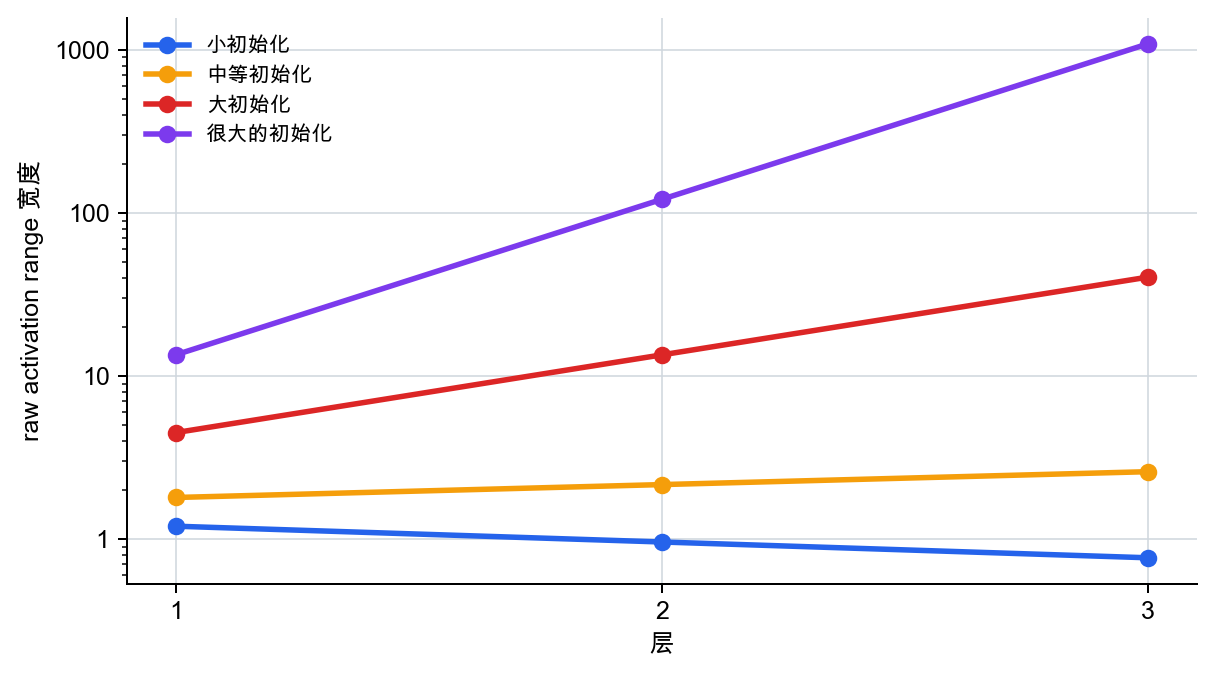
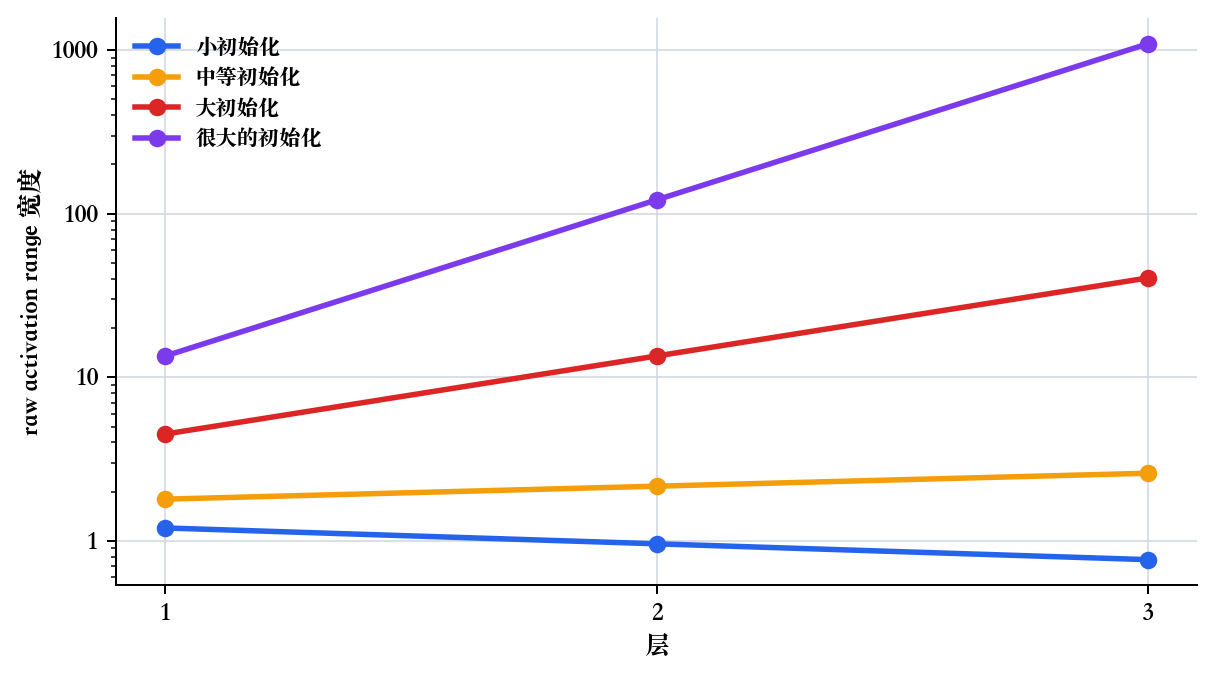
Update Part 5 P5-8.4 translations

diff --git a/docs/assets/part-05/chapter-08/p5_8_4_deep_scale_charts.py b/docs/assets/part-05/chapter-08/p5_8_4_deep_scale_charts.py
@@ -55,6 +55,8 @@ LANG_TEXT = {
             "Noto Sans CJK JP",
             "Microsoft YaHei",
             "PingFang SC",
+            "Songti SC",
+            "Hiragino Sans GB",
             "Arial Unicode MS",
             "DejaVu Sans",
         ],

diff --git a/docs/parts/part-05/chapter-08/section-04.zh.md b/docs/parts/part-05/chapter-08/section-04.zh.md
@@ -1,7 +1,7 @@
 # P5-8.4 补充学习：较大的初始化尺度会怎样摇晃计算范围
 
-Section ID: `P5-8.4`
-Version: `v2026.07.17`
+> Section ID: `P5-8.4`
+> Version: `v2026.07.20`
 
 在 P5-8.3 里，我们把让深层计算没那么容易摇晃的条件，收成了 initialization、numerical stability、batch normalization 三个概念。现在要用实际数字来确认那条说明。
 
@@ -14,12 +14,12 @@ Version: `v2026.07.17`
 ## 本节范围
 
 - 较大的 initialization scale 会怎样在深层重复计算里放大 raw activation 的范围和 variance？
-- 如果在每一层后面都加入 batch normalization，同一条计算 흐름会怎样变化？
+- 如果在每一层后面都加入 batch normalization，同一条计算流程会怎样变化？
 - 这个例子虽然不能代替完整神经网络，但它怎样帮助我们抓住计算稳定化的直觉？
 
 作为第 8 章的最后一步，这一节的角色，是用数字再次确认前一节已经收拢好的`计算稳定化装置`。这也是为什么这里不讨论 optimizer update、loss 下降、真实数据集训练成绩。那些话题会让位给 P5-6.1 的学习循环说明，以及 P5-7.1、P5-7.2 的 optimizer 说明。
 
-## 读这个例子的 기준
+## 读这个例子的标准
 
 下面这个例子的输入，并不是随便列出来的一张数字表，而是被假设为从前一层传过来的三个样本的 activation value。
 
@@ -47,29 +47,17 @@ Version: `v2026.07.17`
 | `weight_cases` 里的尺度 | `raw_range`, `raw_variance` | 起始尺度越大，重复计算会多快把范围拉大？ |
 | `layer` 的重复次数 | 各层 `raw_range`, `raw_variance` 的变化 | 在同样尺度下，层数变多时不稳定会积累到什么程度？ |
 | 输入 activation 表 | `raw_range`, `after_bn_range` | 输入 distribution 一旦变化，batch normalization 之后的范围又会怎样一起变化？ |
-| `eps` | `after_bn_range` 的细微变化 | batch normalization 是怎样以 mean 和 variance 为 기준整理 distribution 的？ |
+| `eps` | `after_bn_range` 的细微变化 | batch normalization 是怎样以 mean 和 variance 为标准整理 distribution 的？ |
 
 这里也要先固定一件事。下面的 batch normalization 结果，并不意味着`初始化再怎么随便变大都没关系`。这个玩具实验只是想分离展示：`在样本相对形状不变、只改尺度时，distribution 会怎样重新被整理。` 所以更安全的读法，是把 batch normalization 看成`重新整理已经产生的 distribution 的装置`，而不是把它看成会替代 initialization 出发点问题的东西。
 
 ## Python 例子
 
 ```python
-# 这个例子比较 initialization scale 如何扩大多层 raw range 和 variance，以及 batch normalization 如何重新整理范围。
-hidden_activations = [
-    {"sample": "A", "activation": 1.0},
-    {"sample": "B", "activation": 2.0},
-    {"sample": "C", "activation": 0.5},
-]
+# 这个例子读取 CSV activation 日志，比较 initialization scale 是否会放大深层 raw range 和 variance，以及 batch normalization 是否会重新整理范围。
+from csv import DictReader
+from pathlib import Path
 
-weight_cases = {
-    "small_init": 0.8,
-    "medium_init": 1.2,
-    "large_init": 3.0,
-    "very_large_init": 9.0,
-}
-
-def linear_layer(values, weight):
-    return [value * weight for value in values]
 
 def batch_norm(values, eps=1e-5):
     mean = sum(values) / len(values)
@@ -77,17 +65,36 @@ def batch_norm(values, eps=1e-5):
     normalized = [(v - mean) / ((variance + eps) ** 0.5) for v in values]
     return mean, variance, normalized
 
-for case_name, weight in weight_cases.items():
-    raw_values = [row["activation"] for row in hidden_activations]
-    bn_values = [row["activation"] for row in hidden_activations]
+csv_path = Path("docs/assets/part-05/chapter-08/deep-scale-activation-log.csv")
+
+rows = []
+with csv_path.open(encoding="utf-8") as file:
+    for row in DictReader(file):
+        rows.append(
+            {
+                "case_name": row["case_name"],
+                "weight_scale": float(row["weight_scale"]),
+                "layer": int(row["layer"]),
+                "sample": row["sample"],
+                "raw_activation": float(row["raw_activation"]),
+            }
+        )
+
+case_order = ["small_init", "medium_init", "large_init", "very_large_init"]
+layer_order = [1, 2, 3]
+
+for case_name in case_order:
+    case_rows = [row for row in rows if row["case_name"] == case_name]
+    weight = case_rows[0]["weight_scale"]
     print(f"[{case_name}] weight = {weight}")
 
-    for layer in range(1, 4):
-        raw_values = linear_layer(raw_values, weight)
-        _, raw_variance, _ = batch_norm(raw_values)
-
-        before_bn = linear_layer(bn_values, weight)
-        _, _, bn_values = batch_norm(before_bn)
+    for layer in layer_order:
+        layer_rows = [
+            row for row in case_rows
+            if row["layer"] == layer
+        ]
+        raw_values = [row["raw_activation"] for row in layer_rows]
+        _, raw_variance, bn_values = batch_norm(raw_values)
 
         print(
             f"layer {layer}: "
@@ -98,7 +105,7 @@ for case_name, weight in weight_cases.items():
     print("---")
 ```
 
-这段代码并不是在实现`一个完整的真实神经网络层`，而是一个压缩实验，只想看：`权重尺度在穿过层时，会把数值范围和 variance 推向哪里。` 因此，我们首先要看的不是精确训练成绩，而是`重复计算与尺度累积的方向`。
+这段代码会读取 [`deep-scale-activation-log.csv`](/AiBook/assets/part-05/chapter-08/deep-scale-activation-log.csv) 里记录的 36 个值，并按 case 和 layer 重新计算范围与 variance。它并不是在实现`一个完整的真实神经网络层`，而是一个压缩实验，只想看：`权重尺度在穿过层时，会把数值范围和 variance 推向哪里。` 因此，我们首先要看的不是精确训练成绩，而是`重复计算与尺度累积的方向`。
 
 输出示例如下。
 
@@ -145,13 +152,13 @@ layer 3: raw_range=(364.500, 1458.000), raw_variance=206671.500, after_bn_range=
 
 ![按 initialization scale 比较逐层 raw variance](/AiBook/assets/part-05/chapter-08/deep-scale-raw-variance-zh.png)
 
-第三张图展示的是：每一层后面都加上 batch normalization 之后，输出范围会变成什么样。raw activation 在不同 case 之间差异很大，但 normalization 之后，范围会被重新整理到`下一层更容易处理的相近规模`。这里最重要的点不是`数值永远都被固定成一模一样`，而是：`即使输入 distribution 差很多，中心和扩散也会被重新拉回可比较的范围。` 在这个玩具实验里，几种 case 的范围看起来几乎一样，是因为三个样本之间的相对形状保持不变，我们只改了整体尺度。所以不能光看这一张图，就下结论说`batch normalization 几乎把 initialization 问题抹掉了。`
+第三张图展示的是：每一层后面都加上 batch normalization 之后，输出范围会变成什么样。raw activation 在不同 case 之间差异很大，但 normalization 之后，范围会被重新整理到`下一层更容易处理的相近规模`。这里最重要的点不是`数值永远都被固定成一模一样`，而是：`即使输入 distribution 差很多，中心和扩散也会被重新拉回可比较的范围。` 在这个玩具实验里，几种 case 的范围看起来几乎一样，是因为三个样本之间的相对形状保持不变，我们只改了整体尺度。所以不能光看这一张图，就下结论说`batch normalization 几乎把 initialization 问题抹掉了。` 这张图也没有使用追踪变化的折线图，而是按 case 做成点比较，让读者先看到`几乎聚到相近范围`这个事实。
 
 ![batch normalization 之后的逐层 activation range](/AiBook/assets/part-05/chapter-08/deep-scale-bn-range-zh.png)
 
 ## 这里该读出的结论
 
-| 输出里看到的现象 | 如果 그대로放着，容易留下的解读 | 用稳定化视角重读后的解读 |
+| 输出里看到的现象 | 如果原样放着，容易留下的解读 | 用稳定化视角重读后的解读 |
 | --- | --- | --- |
 | `very_large_init` 的 raw range 和 variance 在每一层都迅速放大 | 容易觉得大数值代表更强表示，所以是好信号 | 在深层重复计算里，过大的尺度会变成一个数值稳定性问题，让下一层和 gradient path 都跟着摇晃 |
 | batch normalization 之后，各种 case 的 range 又被整理成相近规模 | 容易觉得 batch normalization 只是把大数值直接消掉了 | 它是在重新对齐中间 distribution 的中心和扩散，让下一层拿到更容易处理的输入范围 |
@@ -165,11 +172,10 @@ layer 3: raw_range=(364.500, 1458.000), raw_variance=206671.500, after_bn_range=
 
 - 能说明较大的 initialization scale 会在层与层之间真的放大 raw activation range 吗？
 - 能说明 raw variance 可以作为一个简单观察值，用来读深层重复计算的不稳定吗？
-- 能说明 batch normalization 不是在消灭大数值，而是在重新设定 distribution 기준吗？
+- 能说明 batch normalization 不是在消灭大数值，而是在重新设定 distribution 标准吗？
 - 能区分这个例子不是完整训练过程，而是一个用来确认数值稳定性直觉的小实验吗？
 
 ## 出处与参考资料
 
 - Aston Zhang, Zachary C. Lipton, Mu Li, Alexander J. Smola, `Dive into Deep Learning`, `5.4 Numerical Stability and Initialization`, `8.5 Batch Normalization`, 确认日期：2026-07-14。 [https://d2l.ai/](https://d2l.ai/){: target="_blank" rel="noopener noreferrer" }
 - Ian Goodfellow, Yoshua Bengio, Aaron Courville, `Deep Learning`, Part II `Modern Practical Deep Networks`, 确认日期：2026-07-14。 [https://www.deeplearningbook.org/](https://www.deeplearningbook.org/){: target="_blank" rel="noopener noreferrer" }
-

diff --git a/docs/parts/part-05/chapter-08/section-04.en.md b/docs/parts/part-05/chapter-08/section-04.en.md
@@ -1,7 +1,7 @@
 # P5-8.4 Supplementary Reading: How A Large Initialization Scale Shakes The Computation Range
 
-Section ID: `P5-8.4`
-Version: `v2026.07.17`
+> Section ID: `P5-8.4`
+> Version: `v2026.07.20`
 
 In P5-8.3, we grouped together the conditions that make deep computation actually shake less: initialization, numerical stability, and batch normalization. Now we confirm that claim with actual numbers.
 
@@ -54,22 +54,10 @@ One more point should be fixed first here as well. The batch-normalization resul
 ## Python Example
 
 ```python
-# This example compares how initialization scale expands raw range and variance across layers and how batch normalization reorganizes the range.
-hidden_activations = [
-    {"sample": "A", "activation": 1.0},
-    {"sample": "B", "activation": 2.0},
-    {"sample": "C", "activation": 0.5},
-]
+# This example reads a CSV activation log and compares whether initialization scale expands raw range and variance in deep layers and whether batch normalization reorganizes the range.
+from csv import DictReader
+from pathlib import Path
 
-weight_cases = {
-    "small_init": 0.8,
-    "medium_init": 1.2,
-    "large_init": 3.0,
-    "very_large_init": 9.0,
-}
-
-def linear_layer(values, weight):
-    return [value * weight for value in values]
 
 def batch_norm(values, eps=1e-5):
     mean = sum(values) / len(values)
@@ -77,17 +65,36 @@ def batch_norm(values, eps=1e-5):
     normalized = [(v - mean) / ((variance + eps) ** 0.5) for v in values]
     return mean, variance, normalized
 
-for case_name, weight in weight_cases.items():
-    raw_values = [row["activation"] for row in hidden_activations]
-    bn_values = [row["activation"] for row in hidden_activations]
+csv_path = Path("docs/assets/part-05/chapter-08/deep-scale-activation-log.csv")
+
+rows = []
+with csv_path.open(encoding="utf-8") as file:
+    for row in DictReader(file):
+        rows.append(
+            {
+                "case_name": row["case_name"],
+                "weight_scale": float(row["weight_scale"]),
+                "layer": int(row["layer"]),
+                "sample": row["sample"],
+                "raw_activation": float(row["raw_activation"]),
+            }
+        )
+
+case_order = ["small_init", "medium_init", "large_init", "very_large_init"]
+layer_order = [1, 2, 3]
+
+for case_name in case_order:
+    case_rows = [row for row in rows if row["case_name"] == case_name]
+    weight = case_rows[0]["weight_scale"]
     print(f"[{case_name}] weight = {weight}")
 
-    for layer in range(1, 4):
-        raw_values = linear_layer(raw_values, weight)
-        _, raw_variance, _ = batch_norm(raw_values)
-
-        before_bn = linear_layer(bn_values, weight)
-        _, _, bn_values = batch_norm(before_bn)
+    for layer in layer_order:
+        layer_rows = [
+            row for row in case_rows
+            if row["layer"] == layer
+        ]
+        raw_values = [row["raw_activation"] for row in layer_rows]
+        _, raw_variance, bn_values = batch_norm(raw_values)
 
         print(
             f"layer {layer}: "
@@ -98,7 +105,7 @@ for case_name, weight in weight_cases.items():
     print("---")
 ```
 
-This code does not implement an entire real neural-network layer. It is a compressed experiment that looks only at `where the weight scale pushes value range and variance as it passes through layers`. So what we should look at first is not exact training performance, but `the direction of repeated computation and scale accumulation`.
+This code reads the 36 values recorded in [`deep-scale-activation-log.csv`](/AiBook/assets/part-05/chapter-08/deep-scale-activation-log.csv) and recalculates the range and variance by case and layer. It does not implement `an entire real neural-network layer`; it is a compressed experiment that looks only at `where the weight scale pushes value range and variance as it passes through layers`. So what we should look at first is not exact training performance, but `the direction of repeated computation and scale accumulation`.
 
 An example output looks like this.
 
@@ -145,7 +152,7 @@ The second graph compresses the same phenomenon into the variance. Because varia
 
 ![Layer-wise raw variance by initialization scale](/AiBook/assets/part-05/chapter-08/deep-scale-raw-variance-en.png)
 
-The third graph shows the output range after applying batch normalization behind each layer. Raw activations differ greatly by case, but after normalization the range is reorganized into `a similar scale that is easier for the next layer to handle`. The important point here is not `the numbers are always fixed to exactly the same values`, but rather `even if the input distribution differs greatly, the center and spread are brought back into a comparable range`. In this toy example, the ranges across cases look almost identical because the relative shape of the three samples is preserved while only the scale is changed, so it would be too strong to read this figure alone as saying `batch normalization almost erases the initialization problem`.
+The third graph shows the output range after applying batch normalization behind each layer. Raw activations differ greatly by case, but after normalization the range is reorganized into `a similar scale that is easier for the next layer to handle`. The important point here is not `the numbers are always fixed to exactly the same values`, but rather `even if the input distribution differs greatly, the center and spread are brought back into a comparable range`. In this toy example, the ranges across cases look almost identical because the relative shape of the three samples is preserved while only the scale is changed, so it would be too strong to read this figure alone as saying `batch normalization almost erases the initialization problem`. The graph is also drawn as a point comparison by case, rather than as a line graph for tracking change, so readers first notice that the values gather into nearly the same range.
 
 ![Layer-wise activation range after batch normalization](/AiBook/assets/part-05/chapter-08/deep-scale-bn-range-en.png)
 

diff --git a/management/release-notes/sections/part-05/P5-8.4.md b/management/release-notes/sections/part-05/P5-8.4.md
@@ -10,13 +10,15 @@
 - 그래프 반영: `p5_8_4_deep_scale_charts.py`가 같은 CSV를 읽도록 바꾸고, BN range 그래프는 변화 추적용 선 그래프가 아니라 케이스별 점 비교로 바꿔 비슷한 범위로 정리된다는 점이 먼저 보이도록 재생성했다.
 - 관련 자산: `docs/assets/part-05/chapter-08/deep-scale-activation-log.csv`, `docs/assets/part-05/chapter-08/p5_8_4_deep_scale_charts.py`, `docs/assets/part-05/chapter-08/deep-scale-raw-range-ko.png`, `docs/assets/part-05/chapter-08/deep-scale-raw-variance-ko.png`, `docs/assets/part-05/chapter-08/deep-scale-bn-range-ko.png`
 - 번역 동기화 메모: 한국어 원문 기준 Python 예제가 CSV 기반으로 바뀌었고, 차트 생성 스크립트 재실행으로 영문·중문 PNG도 같은 CSV 로그 구조와 BN y축 기준에 맞춰 갱신되었다. 향후 번역 시 입력 파일 설명과 BN 그래프 해석 문장을 함께 동기화해야 한다.
+- 번역 반영 상태: 영문/중문 번역 반영 완료
+- 원문 기준 버전: `v2026.07.20`
 
 ### v2026.07.20
 - 저작권 검토: Part 5 Module 3 순차 검토 범위에서 큰 초기화 스케일이 깊은 층의 activation range와 variance를 흔드는 Python 예제, batch normalization 장난감 비교와 그래프를 확인했다. 예제 코드·표·그래프 해설은 자체 작성 자료로 판단했다.
 - 출처 사용 점검: Dive into Deep Learning과 Goodfellow et al.은 초기화·수치 안정성·batch normalization 배경 확인 용도로만 연결되어 있으며, 원문 예제 코드·도식·표·문단 재사용 정황은 찾지 못했다.
 - 관련 자산: `deep-scale-raw-range-ko.png`, `deep-scale-raw-variance-ko.png`, `deep-scale-bn-range-ko.png`는 로컬 생성 스크립트 기반 학습 보조 자산으로 판단했다.
 - 본문 반영: 없음. 기존 원문 버전 `v2026.07.17` 유지.
-- 번역 동기화 메모: 번역본 영향 없음.
+- 번역 동기화 메모: 영어·중국어 간체 번역본은 위 v2026.07.20 CSV activation 로그 예제 갱신 항목에서 함께 최신화했다.
 
 ### v2026.07.17
 - 본문 반영: 출력 예시 바로 아래에 `먼저 보이는 줄 -> 다시 물어야 할 질문 -> 붙잡아야 할 개념` 표를 추가해, `very_large_init`, `raw_variance`, `after_bn_range`를 초심자용 읽기 기준으로 다시 정리했다.
